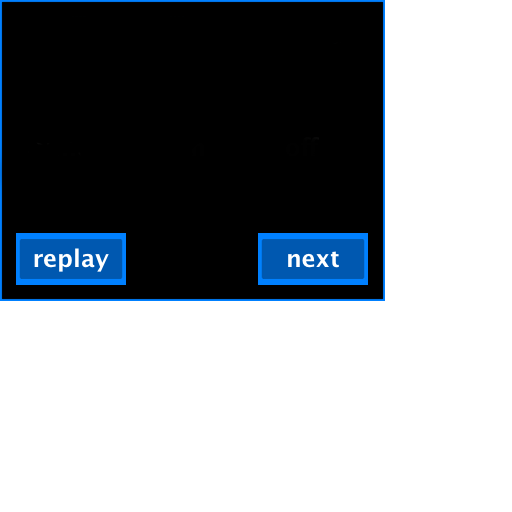
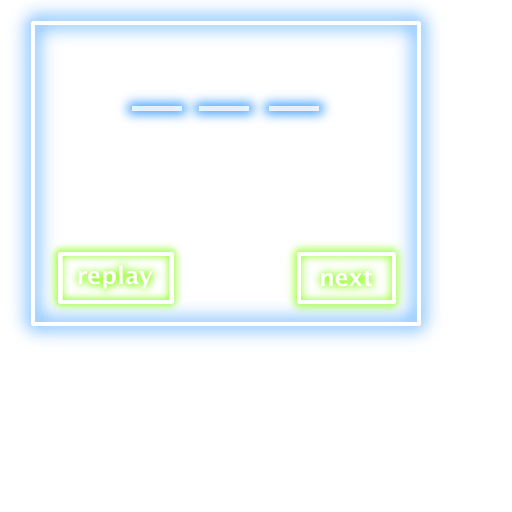
Still working on the level dialog

diff --git a/src/objects/level_dialog.cpp b/src/objects/level_dialog.cpp
@@ -4,15 +4,27 @@
 
 using namespace std;
 
-LevelDialog::LevelDialog() : Sprite("", 64, 64, LEVEL_DIALOG_TAG) {  
+LevelDialog::LevelDialog() : Sprite("", 64, 64, LEVEL_DIALOG_TAG) {
+  show_star1 = false;
+  show_star2 = false;
+  show_star3 = false;  
+  
+  star1_begin_fade = false;
+  star1_end_fade = false;
 }
 
 void LevelDialog::display() {
-  float x = 48.0f;
-  float y = 10.0f;
+  float x = 32.0f;
+  float y = 0.0f;
   
-  float length = 300.0f;
-  float bottom_length = 384.0f;
+  // coordinates for texture
+  float x1 = 16.0f;
+  float y1 = 11.0f;
+  float x2 = 435.0f;
+  float y2 = 340.0f;
+  
+  float length = y2-y1;
+  float bottom_length = x2-x1;
   
   glColor4f(alpha, alpha, alpha, alpha);
   
@@ -22,7 +34,7 @@ void LevelDialog::display() {
   TexManager::Instance()->bindTexture(20);
 
   GLfloat vertices_back[] = {0,length,0, bottom_length,length,0, 0,0,0, bottom_length,0,0};
-  GLfloat tex_back[] = {0,length/512.0f,0, bottom_length/512.0f,length/512.0f,0, 0,0,0, bottom_length/512.0f,0,0};
+  GLfloat tex_back[] = {x1/512.0f,y2/512.0f,0, x2/512.0f,y2/512.0f,0, x1/512.0f,y1/512.0f,0, x2/512.0f,y1/512.0f,0};
 
   glLoadIdentity();
   glColor4f(1.0f, 1.0f, 1.0f, alpha);
@@ -37,42 +49,80 @@ void LevelDialog::display() {
   GLfloat star_tex[] = {0,1,0, 1,1,0, 0,0,0, 1,0,0};
   TexManager::Instance()->bindTexture(19);
   
+  Image *image;
+  
   // star 1
-  glLoadIdentity();
-  glTranslatef(130.0f, 30.0f, 0.0f);
-  glVertexPointer(3, GL_FLOAT, 0, star_vertices);
-  glTexCoordPointer(3, GL_FLOAT, 0, star_tex);
-  glDrawArrays(GL_TRIANGLE_STRIP, 0, 4);
+  if (show_star1) {
+    glLoadIdentity();
+    glTranslatef(140.0f, 30.0f, 0.0f);
+    glVertexPointer(3, GL_FLOAT, 0, star_vertices);
+    glTexCoordPointer(3, GL_FLOAT, 0, star_tex);
+    glDrawArrays(GL_TRIANGLE_STRIP, 0, 4);
+  }
   
   // star 2
-  glLoadIdentity();
-  glTranslatef(205.0f, 30.0f, 0.0f);
-  glVertexPointer(3, GL_FLOAT, 0, star_vertices);
-  glTexCoordPointer(3, GL_FLOAT, 0, star_tex);
-  glDrawArrays(GL_TRIANGLE_STRIP, 0, 4);
+  if (show_star2) {
+    glLoadIdentity();
+    glTranslatef(207.0f, 30.0f, 0.0f);
+    glVertexPointer(3, GL_FLOAT, 0, star_vertices);
+    glTexCoordPointer(3, GL_FLOAT, 0, star_tex);
+    glDrawArrays(GL_TRIANGLE_STRIP, 0, 4);
+  }
   
   // star 3
-  glLoadIdentity();
-  glTranslatef(280.0f, 30.0f, 0.0f);
-  glVertexPointer(3, GL_FLOAT, 0, star_vertices);
-  glTexCoordPointer(3, GL_FLOAT, 0, star_tex);
-  glDrawArrays(GL_TRIANGLE_STRIP, 0, 4);
+  if (show_star3) {
+    glLoadIdentity();
+    glTranslatef(277.0f, 30.0f, 0.0f);
+    glVertexPointer(3, GL_FLOAT, 0, star_vertices);
+    glTexCoordPointer(3, GL_FLOAT, 0, star_tex);
+    glDrawArrays(GL_TRIANGLE_STRIP, 0, 4);
+  }
   
   // message
-  TextureString *tx = new TextureString(80.0f, 110.0f, "Boooooooooooooooo!");
+  TextureString *tx = new TextureString(120.0f, 125.0f, "Boooooooooooooooo!");
   tx->display();
   delete tx;
   
   // shots
-  tx = new TextureString(60.0f, 170.0f, "Shots: 100");
+  string shots_str = "Shots: ";
+  stringstream ss;
+  ss << shots;
+  shots_str.append(ss.str());
+  
+  tx = new TextureString(63.0f, 190.0f, shots_str);
   tx->display();
   delete tx;
   
   // best
-  tx = new TextureString(320.0f, 170.0f, "Best: 8");
+  string best_str = "Best: ";
+  best_str.append(LevelData::Instance()->getCurrentDetails().score);
+  
+  tx = new TextureString(302.0f, 190.0f, best_str);
   tx->display();
   delete tx;
-
+  
   glDisableClientState(GL_VERTEX_ARRAY);
   glDisableClientState(GL_TEXTURE_COORD_ARRAY);
+}
+
+void LevelDialog::setStarData(int s1, int s2, int s3, string s_type) {
+  star1 = s1;
+  star2 = s2;
+  star3 = s3;
+  star_type = s_type;
+}
+
+void LevelDialog::setScoreData(int _shots) {
+  shots = _shots;
+  
+  show_star1 = false;
+  show_star2 = false;
+  show_star3 = false;
+ 
+  // determine which stars we should show
+  if (star_type == "shots") {
+    if (shots <= star1) show_star1 = true;
+    if (shots <= star2) show_star2 = true;
+    if (shots <= star3) show_star3 = true;
+  }
 }

diff --git a/src/scenes/gameplay_scene.cpp b/src/scenes/gameplay_scene.cpp
@@ -2,6 +2,7 @@
 
 #include <iostream>
 
+bool GameplayScene::update_end_level = false;
 bool GameplayScene::show_end_level = false;
 bool GameplayScene::finished_level = false;
 bool GameplayScene::accel_control = false;
@@ -123,6 +124,11 @@ void GameplayScene::gameLoop() {
     
   while (in_loop) {
     glClear(GL_COLOR_BUFFER_BIT);
+    
+    if (update_end_level) {
+      level_dialog->setScoreData(score);
+      update_end_level = false;
+    }
     
     if (accel_control) {
       xForce = (float) SDL_JoystickGetAxis(joystick, 1) / 32768.0;
@@ -484,6 +490,7 @@ void GameplayScene::loadLevel(string level_file) {
   string min_pos, max_pos, direction;
   string fixed = "";
   string body1, body2, body1_x, body1_y, body2_x, body2_y;
+  // string star1_data, star2_data, star3_data;
   cpBody *pinbody1, *pinbody2;
   Box *box;
   Platform *platform;
@@ -531,6 +538,14 @@ void GameplayScene::loadLevel(string level_file) {
     TextureString *final_score = new TextureString(125.0f, 180.0f, LevelData::Instance()->getFinalScore());
     addObject(final_score);
   }
+  
+  // score data
+  star1 = atoi(level->ToElement()->Attribute("star1"));
+  star2 = atoi(level->ToElement()->Attribute("star2"));
+  star3 = atoi(level->ToElement()->Attribute("star3"));
+  star_type = level->ToElement()->Attribute("star_type");
+  
+  level_dialog->setStarData(star1, star2, star3, star_type);
   
   for (object_node = level->FirstChild(); object_node != 0; object_node = object_node->NextSibling() ) {
     if (object_node->ToElement()->Attribute("type") == string("CANNON") && !has_cannon) {
@@ -1053,6 +1068,7 @@ static int pre_solve_goal(cpArbiter *arb, cpSpace *space, void *ignore) {
     SoundManager::Instance()->playLevelEnd();
   
   GameplayScene::show_end_level = true;
+  GameplayScene::update_end_level = true;
   return 0;
 }
 

diff --git a/src/objects/level_dialog.h b/src/objects/level_dialog.h
@@ -4,6 +4,7 @@
 #include "../projection_engine/sound_manager.h"
 #include "../projection_engine/event_translations.h"
 #include "../objects/texture_string.h"
+#include "../objects/image.h"
 #include "../projection_engine/level_data.h"
 
 #ifndef LEVEL_DIALOG_H
@@ -11,8 +12,20 @@
 
 class LevelDialog : public Sprite {
 
-  // private:
-    // string level_id;
+  private:
+    int star1;
+    int star2;
+    int star3;
+    string star_type;
+    
+    int shots;
+    
+    bool show_star1;
+    bool show_star2;
+    bool show_star3;
+    
+    bool star1_begin_fade;
+    bool star1_end_fade;
 
   public:
     /**
@@ -21,6 +34,16 @@ class LevelDialog : public Sprite {
     LevelDialog();
     void destroy(cpSpace*) {};
     void definePhysics(cpSpace*) {};
+    
+    /**
+     * star1, star2, star3, star_type
+     */
+    void setStarData(int, int, int, string);
+    
+    /**
+     * shots
+     */
+    void setScoreData(int);
     
     /**
      * Display the dialog

diff --git a/src/scenes/gameplay_scene.h b/src/scenes/gameplay_scene.h
@@ -46,11 +46,18 @@ class GameplayScene : public Scene {
     cpBody *staticBody;
     cpShape *egg_shape;
     vector<cpConstraint*> constraints;
+    
+    // score data
+    int star1;
+    int star2;
+    int star3;
+    string star_type;
   
   public:
     GameplayScene();
     ~GameplayScene();
-    
+  
+    static bool update_end_level;
     static bool show_end_level;
     static bool finished_level;
     static bool accel_control;
